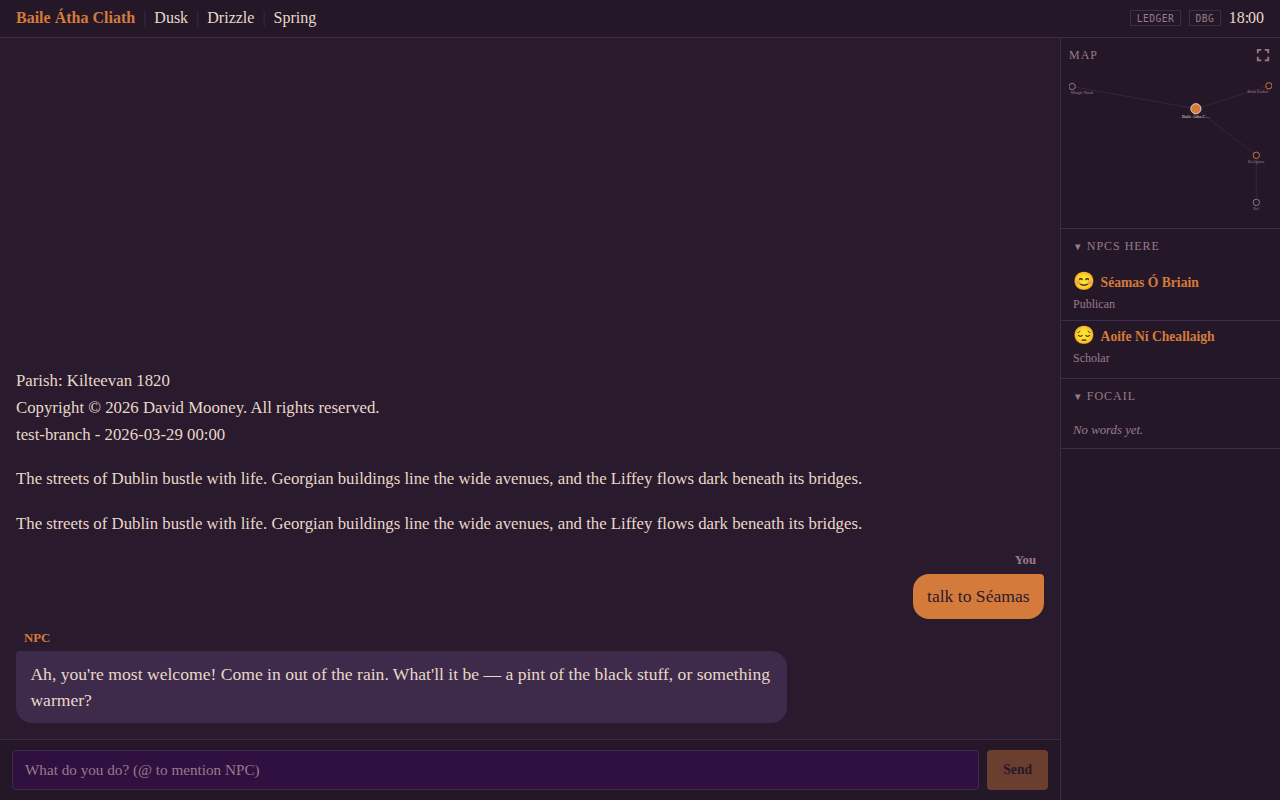
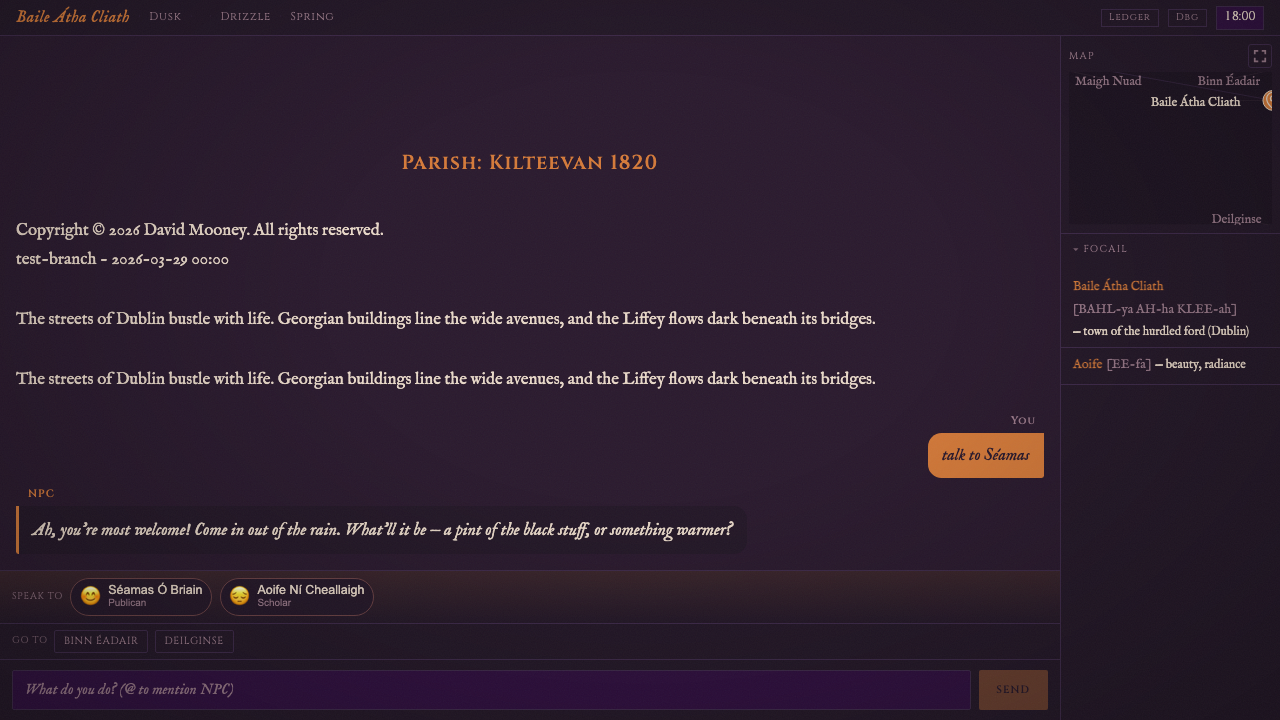
test: refresh visual baselines and add chip row e2e assertion
Update apps/ui/e2e/app.spec.ts to assert the new .npc-chip row above
the input field instead of the old sidebar NPC list. Regenerate the
four time-of-day visual baselines and the matching docs/screenshots/
PNGs to capture the new chip row layout.

Also fix a pre-existing path bug in apps/ui/e2e/screenshots.spec.ts:
post-#220 reorg, the relative path '../../docs/screenshots' resolved
to apps/docs/screenshots/ (a stray directory) instead of the
repo-root docs/screenshots/. Use '../../../docs/screenshots' so the
project's main screenshot set actually gets refreshed.

diff --git a/apps/ui/e2e/app.spec.ts b/apps/ui/e2e/app.spec.ts
@@ -37,9 +37,13 @@ test.describe('App layout', () => {
 		await expect(circles).toHaveCount(MAP_DATA.locations.length);
 	});
 
-	test('sidebar shows NPCs at current location', async ({ page }) => {
+	test('NPC chip row shows NPCs at current location', async ({ page }) => {
+		// NPCs are now rendered as a clickable chip row above the input field,
+		// not in the sidebar.
 		for (const npc of NPCS) {
-			await expect(page.getByText(npc.name)).toBeVisible();
+			await expect(
+				page.locator('.npc-chip', { hasText: npc.name })
+			).toBeVisible();
 		}
 	});
 

diff --git a/apps/ui/e2e/screenshots.spec.ts b/apps/ui/e2e/screenshots.spec.ts
@@ -13,7 +13,8 @@ import { fileURLToPath } from 'url';
 
 const __dirname = path.dirname(fileURLToPath(import.meta.url));
 const TIMES_OF_DAY = ['morning', 'midday', 'dusk', 'night'] as const;
-const SCREENSHOT_DIR = path.resolve(__dirname, '../../docs/screenshots');
+// Path is relative to apps/ui/e2e/screenshots.spec.ts → repo root → docs/screenshots/.
+const SCREENSHOT_DIR = path.resolve(__dirname, '../../../docs/screenshots');
 
 test.describe('Screenshot generation', () => {
 	for (const time of TIMES_OF_DAY) {
